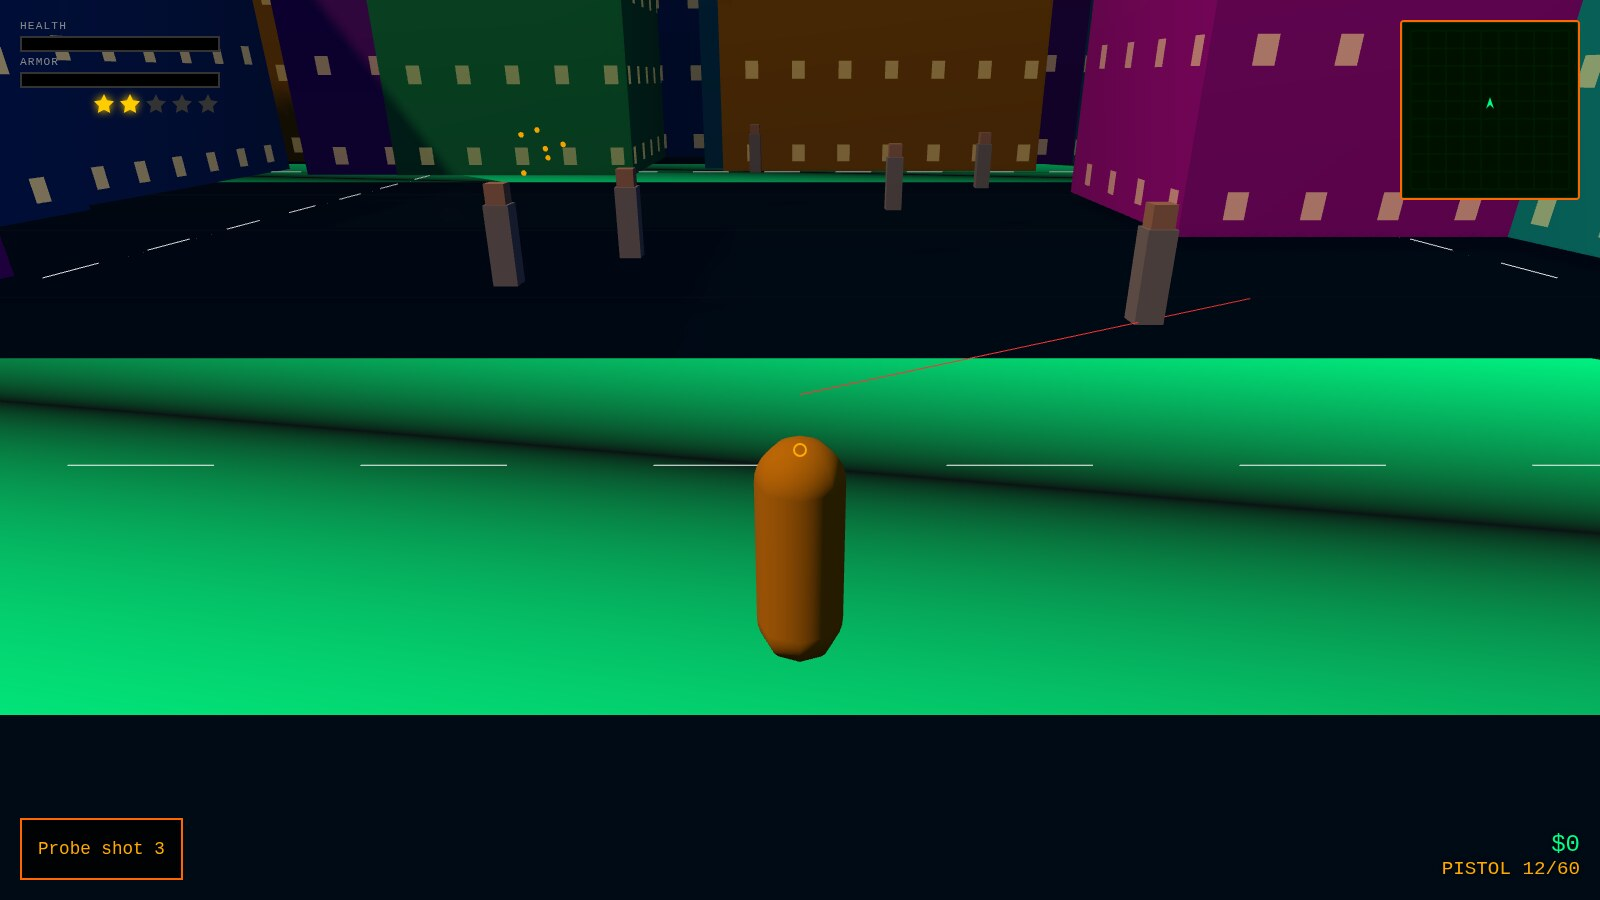
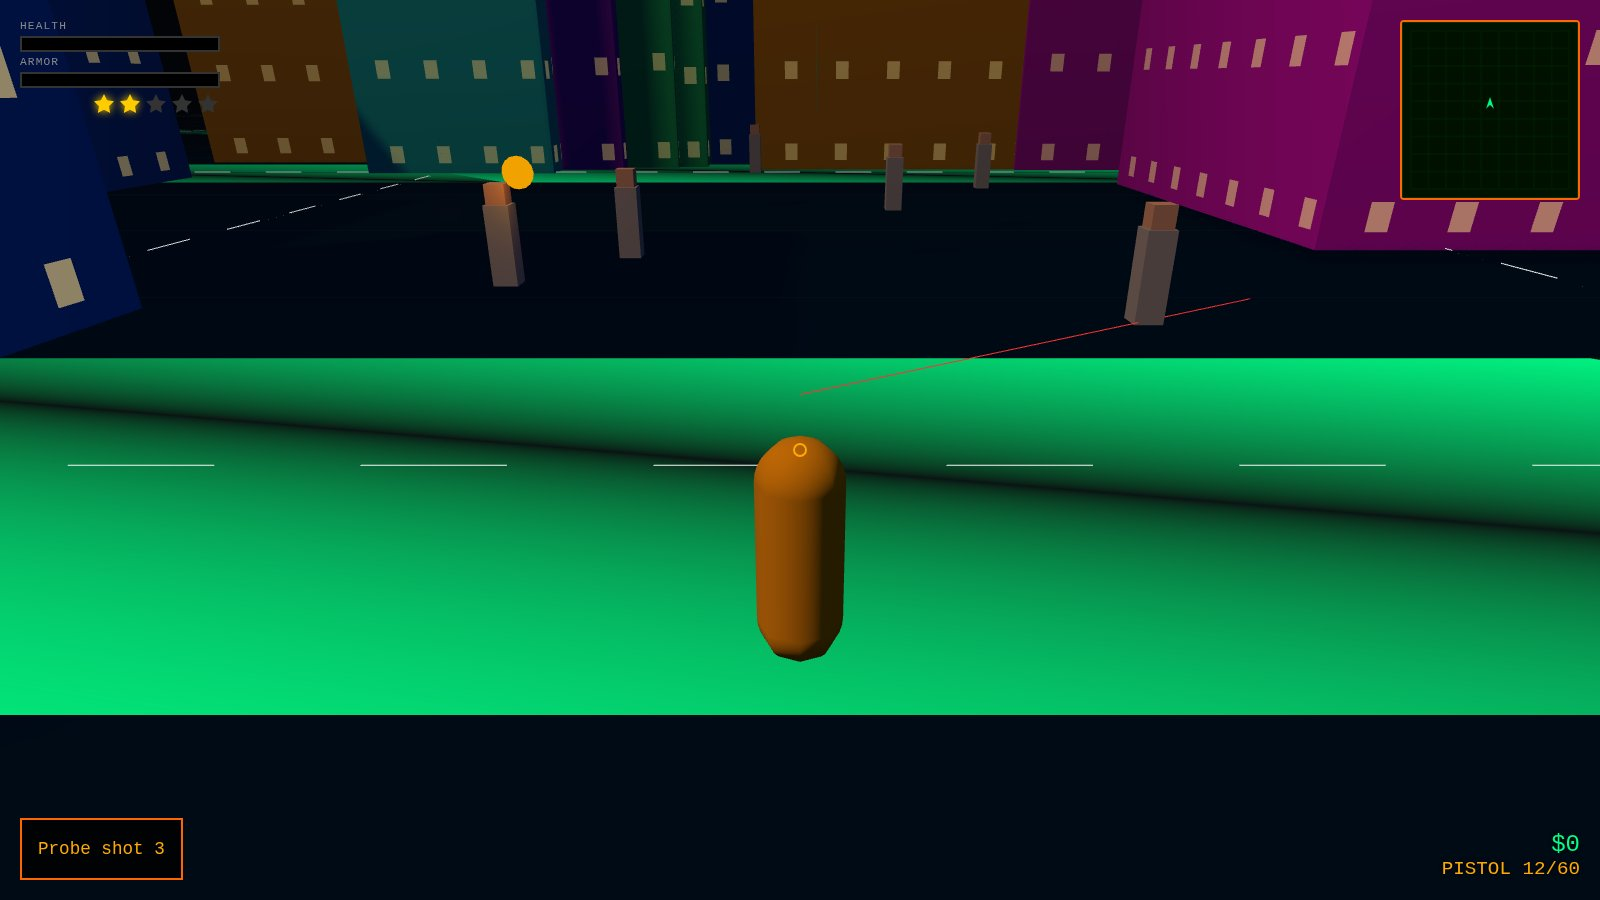
probe scenes: refactor shared setup, recapture screenshots
- extract _initProbeScene for shared probe lighting/spawn/city-hide
- add World._syncMeshTransform, use in addVehicle/addPedestrian
- name Car neon strip height constant
- recapture probe-1..4.jpg at 1600x900

Changed region(s): [[0.0, 0.0, 0.5312, 0.4044], [0.5625, 0.0, 1.0, 0.28], [0.5625, 0.1556, 0.5938, 0.2178]]

diff --git a/game/src/core/Game.js b/game/src/core/Game.js
@@ -219,16 +219,7 @@ Game.prototype.setWanted = function (level) {
 
 // ---------------- Probe mode ----------------
 
-Game.prototype._buildProbeScene = function () {
-    var rng = new MathUtils.SeededRNG(this.probe.seed);
-    this.world.probeMode = true;
-    // ensure stubs exist
-    this.world.collisionBounds = this.world.collisionBounds || [];
-    this.world.roadNetwork = this.world.roadNetwork || { segments: [], intersections: [] };
-    this.world.vehicles = this.world.vehicles || [];
-    this.world.pedestrians = this.world.pedestrians || [];
-    this.world.timeOfDay = this.timeOfDay;
-
+Game.prototype._initProbeScene = function () {
     // Showcase lighting: probe captures freeze a posed scene, so light it like
     // a lit street at dusk instead of the ambient midnight defaults.
     if (this.lighting) {
@@ -249,6 +240,23 @@ Game.prototype._buildProbeScene = function () {
     if (this.world.group) this.world.group.visible = false;
     if (this.world.instMesh) this.world.instMesh.visible = false;
     this.world.collisionBounds.length = 0;
+
+    // Default player pose for the staged shot.
+    this.player.spawn(0, 1, 16, 0);
+    this.player.setOnFoot(true);
+};
+
+Game.prototype._buildProbeScene = function () {
+    var rng = new MathUtils.SeededRNG(this.probe.seed);
+    this.world.probeMode = true;
+    // ensure stubs exist
+    this.world.collisionBounds = this.world.collisionBounds || [];
+    this.world.roadNetwork = this.world.roadNetwork || { segments: [], intersections: [] };
+    this.world.vehicles = this.world.vehicles || [];
+    this.world.pedestrians = this.world.pedestrians || [];
+    this.world.timeOfDay = this.timeOfDay;
+
+    this._initProbeScene();
 
     var n = this.probe.n;
     if (n === 1) this._probe1(rng);
@@ -296,7 +304,6 @@ Game.prototype._probe1 = function (rng) {
     // Cover shot: player on foot at an intersection, 5-star wanted, police converging from ahead.
     this.setWanted(5);
     this.player.spawn(0, 1, 20, 0);
-    this.player.setOnFoot(true);
 
     var cars = [];
     var c1 = this.world.spawnProbePoliceCar(-11, 1, 30, Math.PI);
@@ -365,8 +372,6 @@ Game.prototype._probe2 = function (rng) {
 
 Game.prototype._probe3 = function (rng) {
     // Plaza combat: pedestrians at varied distances ahead, impacts and muzzle flash.
-    this.player.spawn(0, 1, 16, 0);
-    this.player.setOnFoot(true);
     this.setWanted(2);
 
     var peds = [[-6, 1, 24], [4, 1, 30], [-3, 1, 38], [6, 1, 27], [-7, 1, 44], [2, 1, 50]];
@@ -394,8 +399,6 @@ Game.prototype._probe3 = function (rng) {
 
 Game.prototype._probe4 = function (rng) {
     // Street canyon vista: parked curb cars, traffic, pedestrians, dense tall buildings.
-    this.player.spawn(0, 1, 16, 0);
-    this.player.setOnFoot(true);
     this.setWanted(1);
 
     var parked = [[-7.5, 1, 28, 0], [-7.5, 1, 38, 0], [7.5, 1, 30, 0], [7.5, 1, 42, 0]];

diff --git a/game/src/world/World.js b/game/src/world/World.js
@@ -90,19 +90,20 @@ World.prototype.update = function (dt) {
     }
 };
 
+World.prototype._syncMeshTransform = function (entity) {
+    entity.mesh.position.copy(entity.position);
+    entity.mesh.quaternion.copy(entity.quaternion);
+};
+
 World.prototype.addVehicle = function (vehicle) {
     this.vehicles.push(vehicle);
-    // Sync the transform at spawn so probe captures and the first rendered
-    // frame show the mesh where it was placed, not at the origin.
-    vehicle.mesh.position.copy(vehicle.position);
-    vehicle.mesh.quaternion.copy(vehicle.quaternion);
+    this._syncMeshTransform(vehicle);
     this.game.scene.add(vehicle.mesh);
 };
 
 World.prototype.addPedestrian = function (ped) {
     this.pedestrians.push(ped);
-    ped.mesh.position.copy(ped.position);
-    ped.mesh.quaternion.copy(ped.quaternion);
+    this._syncMeshTransform(ped);
     this.game.scene.add(ped.mesh);
 };
 

diff --git a/game/src/entities/Car.js b/game/src/entities/Car.js
@@ -1,5 +1,7 @@
 // SOLMAR NIGHTS - base car entity with arcade driving physics.
 
+var NEON_STRIP_HEIGHT = 1.28;
+
 var Car = function (game) {
     this.game = game;
     this.mesh = null;
@@ -67,7 +69,7 @@ Car.prototype.init = function (x, y, z, rot) {
         new THREE.BoxGeometry(2.05, 0.18, 4.4),
         new THREE.MeshBasicMaterial({ color: 0x00ff88 })
     );
-    strip.position.set(0, 1.28, 0);
+    strip.position.set(0, NEON_STRIP_HEIGHT, 0);
     group.add(strip);
 
     group.position.copy(this.position);
